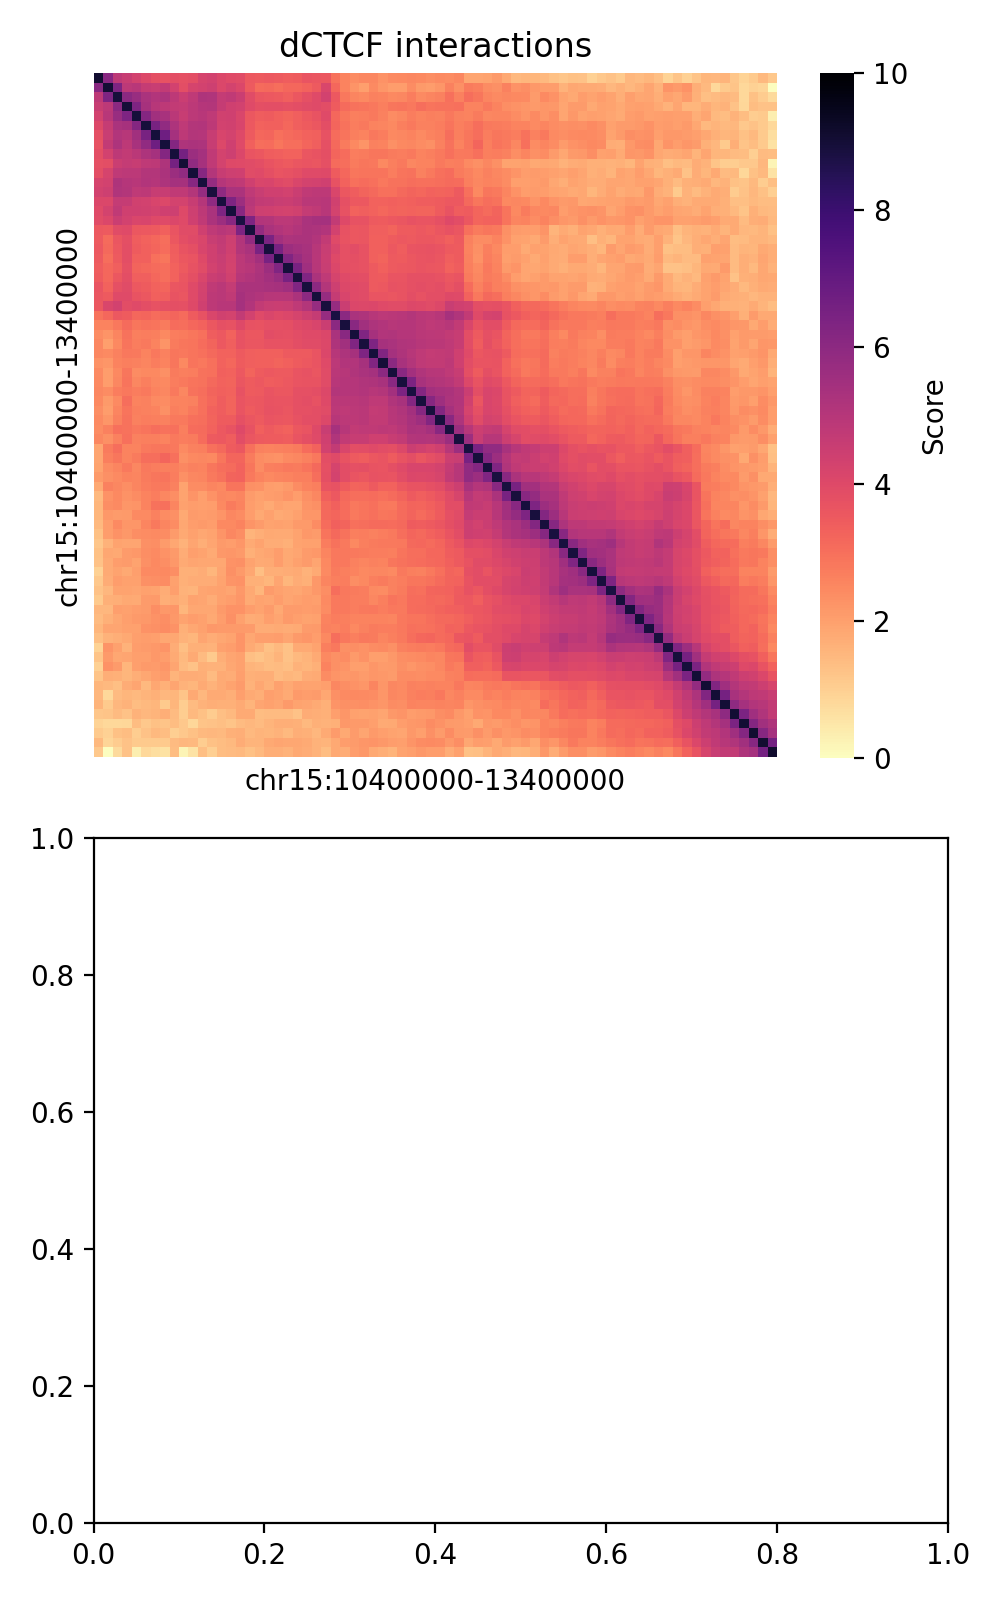
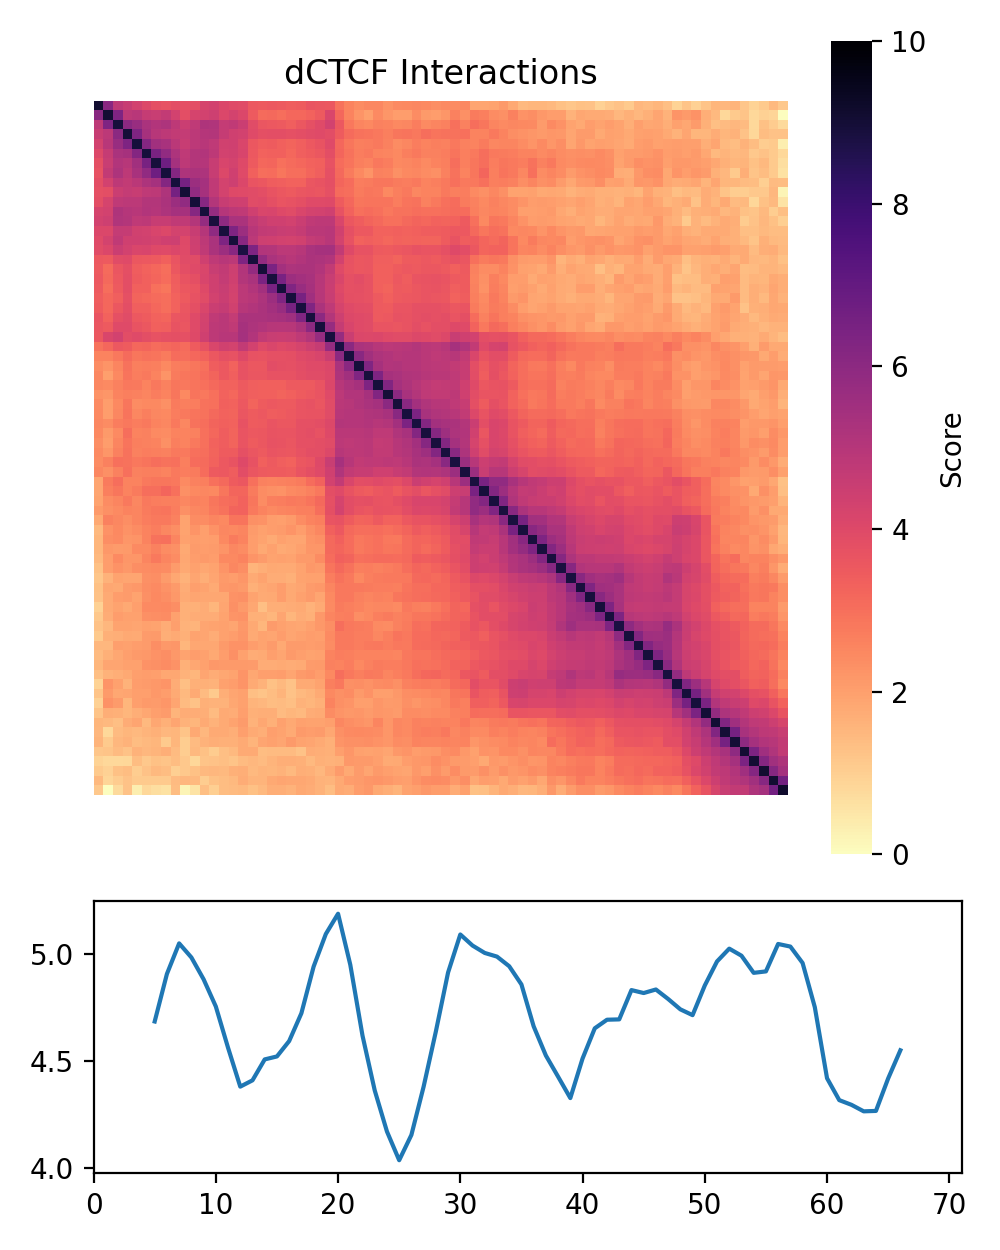
have insulation plot, need to adjust axes

diff --git a/week6-homework/insulation_scores.py b/week6-homework/insulation_scores.py
@@ -52,13 +52,34 @@ for row in fltrd:
     mat[row[0], row[1]] = row[2]
     mat[row[1], row[0]] = row[2]
 
-fig, ax = plt.subplots(nrows = 2, figsize = (5, 8))
+fig, ax = plt.subplots(2, 1, gridspec_kw={'height_ratios': [3, 1]}, figsize=(5,6.25))
 sns.heatmap(mat, ax=ax[0], vmin=0, vmax=10, cmap="magma_r", square=True,
                 xticklabels=False, yticklabels=False, cbar_kws={"label": "Score"})
 
 ax[0].set_title('dCTCF Interactions')
 ax[0].set_xlabel('chr15:10400000-13400000')
 ax[0].set_ylabel('chr15:10400000-13400000')
+
+x = np.arange(5, new_max - 4)
+y = []
+
+for i in x:
+    y.append(np.mean(mat[(i - 5):i, i:(i + 5)]))
+
+ax[0].axis('off')
+plt.margins(x=0)
+
+ax[1].plot(x,y)
+ax[1].set_xlim(0, new_max)
+ax[1].set_title('Insulation score')
+plt.subplots_adjust(left=0.15,
+                bottom=0.1,
+                right=1.0,
+                top=1.0,
+                wspace=0.4,
+                hspace=0.0)
+
+
 
 plt.tight_layout()
 plt.savefig(out_fname, dpi = 200)

diff --git a/week6-homework/README.md b/week6-homework/README.md
@@ -21,5 +21,11 @@ I am not sure what the majority of the invalid pairs would be, but I would guess
 ## Part 2
 
 ```
-./load_data.py analysis/hic_results/matrix/ddCTCF/iced/6400/ddCTCF_ontarget_6400_iced.matrix analysis/hic_results/matrix/dCTCF/iced/6400/dCTCF_ontarget_6400_iced.matrix analysis/hic_results/matrix/dCTCF/raw/6400/dCTCF_ontarget_6400_abs.bed loaded_data.matrix
+./load_data.py analysis/hic_results/matrix/ddCTCF/iced/6400/ddCTCF_ontarget_6400_iced.matrix analysis/hic_results/matrix/dCTCF/iced/6400/dCTCF_ontarget_6400_iced.matrix analysis/hic_results/matrix/dCTCF/raw/6400/dCTCF_ontarget_6400_abs.bed subsampled.png
+
+./load_data.py matrix/ddCTCF_full.6400.matrix matrix/dCTCF_full.6400.matrix matrix/6400_bins.bed full.png
 ```
+
+1. Yes, I am able to see the highlighted difference!
+2. Compared to the subsampled dataset, the full dataset had stronger interaction scores between most or all regions of the chromosome, and there appeared to be less extreme differences between the dCTCF and ddCTCF interaction profiles.
+3. The highlighted signal indicates the position of the CTCF site.
